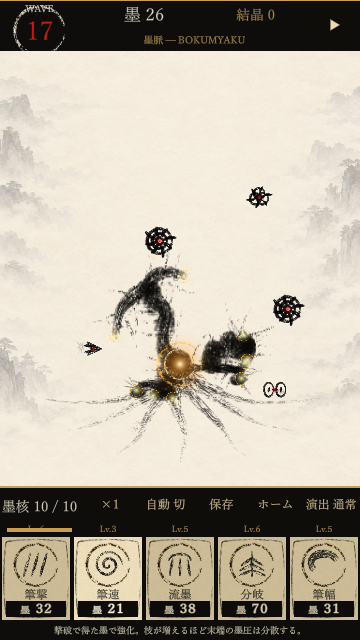
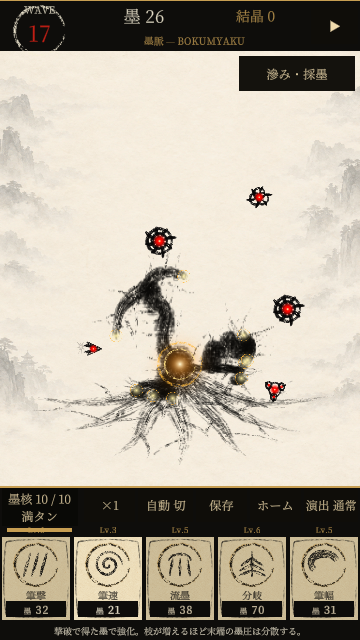
Add branching ink roots beneath battle core

diff --git a/UnitySandbox/Assets/BokumyakuPrototype/Presentation/BokumyakuGame.BranchFibers.cs b/UnitySandbox/Assets/BokumyakuPrototype/Presentation/BokumyakuGame.BranchFibers.cs
@@ -14,15 +14,33 @@ namespace Bokumyaku.Presentation
     var start=new Vector2(192,256);
     var end=start+new Vector2(Mathf.Sin(angle)*172,-Mathf.Cos(angle)*210);
     var control=start+new Vector2(Mathf.Sin(angle)*45,-115);
-    var brush=InkBrushSettings.Dense;brush.radius=13;brush.pigment=.8f;brush.water=.12f;brush.roughness=.65f;brush.depletion=.003f;
+    var brush=InkBrushSettings.Dense;brush.radius=18;brush.pigment=.8f;brush.water=.12f;brush.roughness=.65f;brush.depletion=.003f;
     persistentInk.Begin(new InkPoint(start.x*sx,start.y*sy,0,.9f),brush,unchecked(Run.Seed+i*487));
     for(int n=1;n<=32;n++)
     {
      float t=n/32f;var p=(1-t)*(1-t)*start+2*(1-t)*t*control+t*t*end;
      p.x+=Mathf.Sin(t*Mathf.PI*2+i)*Mathf.Sin(t*Mathf.PI)*7;
-     persistentInk.Move(new InkPoint(p.x*sx,p.y*sy,t*.6f,Mathf.Lerp(.9f,.025f,t)));
+     persistentInk.Move(new InkPoint(p.x*sx,p.y*sy,t*.6f,Mathf.Lerp(.9f,.04f,t*t)));
     }
     persistentInk.End();
+   }
+   // Short side roots anchor the core without adding gameplay nodes.
+   for(int i=0;i<7;i++)
+   {
+    float angle=Mathf.Lerp(-1.25f,1.25f,i/6f);
+    var start=new Vector2(192,256);var end=start+new Vector2(Mathf.Sin(angle)*172,-Mathf.Cos(angle)*210);
+    var control=start+new Vector2(Mathf.Sin(angle)*45,-115);
+    for(int fork=0;fork<3;fork++)
+    {
+     float t=.38f+fork*.17f;var junction=(1-t)*(1-t)*start+2*(1-t)*t*control+t*t*end;
+     junction.x+=Mathf.Sin(t*Mathf.PI*2+i)*Mathf.Sin(t*Mathf.PI)*7;
+     var direction=(end-control).normalized;var side=new Vector2(-direction.y,direction.x)*((i+fork)%2==0?1:-1);
+     var tip=junction+direction*(30+fork*8)+side*(22+fork*7);
+     var brush=InkBrushSettings.Dense;brush.radius=6-fork;brush.water=.12f;brush.roughness=.65f;
+     persistentInk.Begin(new InkPoint(junction.x*sx,junction.y*sy,0,.8f),brush,unchecked(Run.Seed+i*487+fork+71));
+     for(int n=1;n<=12;n++){float u=n/12f;var p=Vector2.Lerp(junction,tip,u)+side*Mathf.Sin(u*Mathf.PI)*8;persistentInk.Move(new InkPoint(p.x*sx,p.y*sy,u*.4f,Mathf.Lerp(.8f,.03f,u)));}
+     persistentInk.End();
+    }
    }
    persistentInk.Flush();
   }

diff --git a/docs/STATE.md b/docs/STATE.md
@@ -8,7 +8,7 @@
 - 日本語HUDは同梱Noto Serif静的TMP。実行60fps要求/終了時復元。Runtime/シミュレーション/経済/保存未変更。価格500案はstash保護。
 
 ## 直近の結果
-- 検証区分: ダメージ表示の限定Play/人工プール検証。実HP減少と表示累計4.514327が一致（4表示）。damage-number-check.json/png。実機/新Windowsビルドなし。
+- 検証区分: 根の美術変更を限定Playで確認。seed42/6000tick/Wave17、全面再構築0。card-art-wave17.png。性能再計測・実機・新Windowsビルドなし。
 - 敵案を反映: 分裂種の子核/ボスの分岐触手に赤い副核3個ずつ。隔離人工配置3体・9副核を確認。enemy-bud-fixture.json/png（自然出現試験ではない）。
 - 「滲み・採墨」開閉パネルを追加。2購入/墨減算と不足拒否3/3、31ラベルの表示文字確認。extra-upgrade-check.json/png。パネル開直後の同フレームraycastは不採用、次フレームで実施。
 - 同seed再出撃の閉じ忘れを周回参照判定へ修正。上限2種/閉じる/再開/同seed再出撃/Homeの6項目合格。副核Reset→描画30回でRenderer79→79。
@@ -17,6 +17,6 @@
 - Play終了・QA設定復元。Gitに実装/証拠を保存。
 
 ## 次の一手
-1. ダメージ表示を追加（同一敵を集約、24個上限、演出軽減で上昇なし）。人工100体×30回で24個上限/再利用/集約/Reset非表示を確認。美術は参考WAVE37に未達。
+1. ダメージ表示を追加（同一敵を集約、24個上限、演出軽減で上昇なし）。人工100体×30回で24個上限/再利用/集約/Reset非表示を確認。根7本を太くし21分岐を追加。まだ線の集合に見えるため濃墨の面を改善する。美術は参考WAVE37に未達。
 2. 同梱フォントサイズ削減、実機のタップ/ノッチ/フォント/CopyTexture確認。撃破跡は周回内のみ。
 3. 音の聴感と初週バランスは描画後。商品完成条件PRODUCT_COMPLETION.md。長期曲線凍結・リポジトリ分割は計画のみ。
